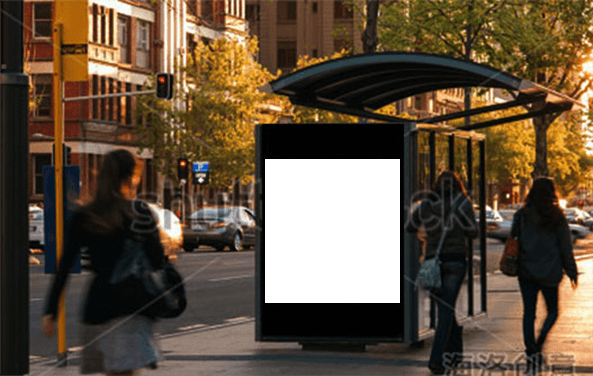
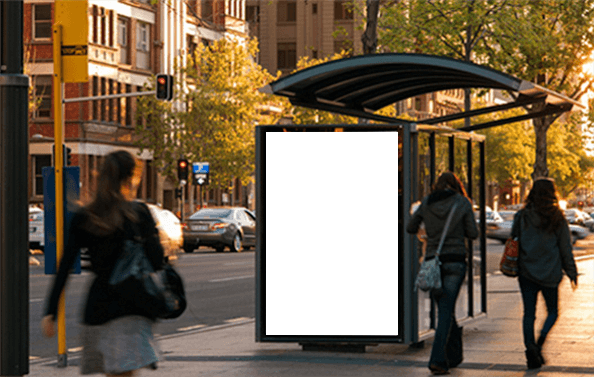
update

diff --git a/public/assets/css/common.css b/public/assets/css/common.css
@@ -74,7 +74,7 @@ h2{ color:#737373; font-size:18px; line-height:100%; padding:0 0 50px 35px;}
 .guangCover{ left:0; top:0; width:100%; height:100%;}
 
 .guang2{ width:592px; height:375px; margin:20px auto; background:#000000;}
-.guang2Img{ position:absolute; left:227px; top:159px;}
+.guang2Img{ position:absolute; left:160px; top:128px;}
 
 .guang3{ width:592px; height:375px; margin:20px auto; background:#000000;}
 .guang3Img{ position:absolute; left:380px; top:128px;}

diff --git a/resources/views/info.blade.php b/resources/views/info.blade.php
@@ -60,7 +60,7 @@ body{ background:#FFF;}
     <div class="guang2">
     	<div class="innerDiv">
         	<div class="guang2Img">
-            	<img src="{{asset($info->image_path)}}" width="212">
+            	<img src="{{asset($info->image_path)}}" width="350">
             </div>
         	<img src="{{asset('assets/images/shareImg2.png')}}" class="abs guangCover">
         </div>
